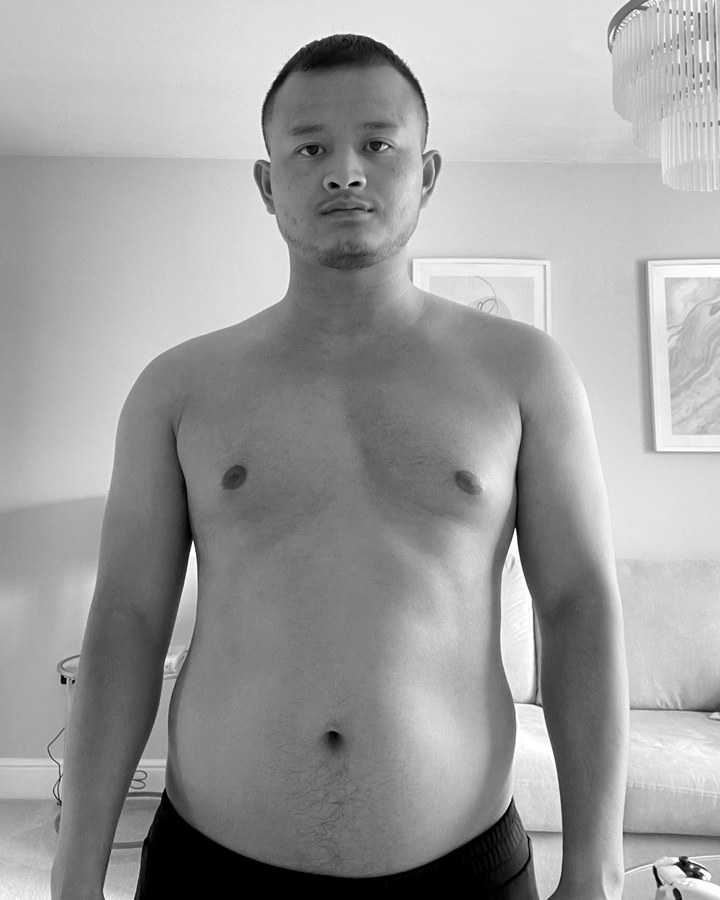
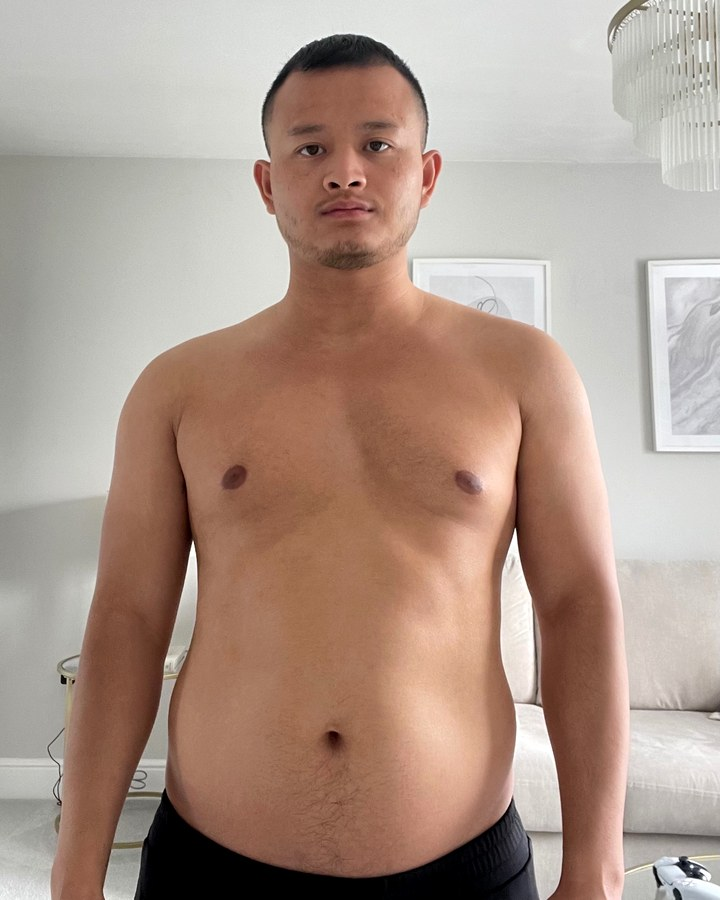
Cleaner hero (picture beside/above text, colour kept), colour before/after, shorter home, solid header
Claude-Session: https://claude.ai/code/session_01GB6whwA2aYPEgFXN47NhAr

diff --git a/src/components/home/Hero.tsx b/src/components/home/Hero.tsx
@@ -8,42 +8,42 @@ import { StartTraining } from "@/components/ui/StartTraining";
 import { HeroVideo } from "./HeroVideo";
 
 /**
- * Cinematic opening: the owner's film (content/media.ts) fills the first
- * screen, or, until it is supplied, the hero photograph does. A dark fade
- * keeps the cream text readable on any footage, and the text sits low so the
- * picture keeps the space above it. The video player is positioned over the
- * photograph so the layout is identical either way.
+ * Clean opening: one rounded picture (the owner's film from content/media.ts,
+ * or a still until it is supplied) and the words beside or beneath it, so
+ * nothing sits on top of the footage and its colours stay as filmed. On
+ * phones the picture comes first, then the headline and the button, all in
+ * the first screen. DOM order is text first so the heading leads for screen readers.
  */
 export function Hero() {
   const cta = getPrimaryCta();
   return (
-    <section aria-labelledby="hero-heading" className="relative isolate overflow-hidden text-paper">
-      <div className="relative h-[calc(100svh-4rem)] min-h-[32rem] max-h-[56rem] sm:h-[calc(100svh-5rem)]">
-        {heroVideo ? (
-          <HeroVideo sources={heroVideo.sources} poster={heroVideo.poster} className="absolute inset-0" />
-        ) : (
-          <PhotoFrame photo={images.hero} sizes="100vw" priority square className="absolute inset-0" />
-        )}
-        {/* The picture melts into the page: dark at the top (under the header) and at the foot (into the next section). */}
-        <div aria-hidden="true" className="pointer-events-none absolute inset-0 bg-linear-to-t from-ink via-ink/55 via-40% to-ink/30 sm:via-ink/40" />
-
-        <div className="container-page relative flex h-full flex-col justify-end pb-10 sm:pb-14 lg:pb-16">
-          <p className="eyebrow text-paper/80">
+    <section aria-labelledby="hero-heading" className="pt-4 pb-16 sm:pt-6 sm:pb-24 lg:pb-28">
+      <div className="container-page flex flex-col lg:grid lg:grid-cols-12 lg:items-center lg:gap-x-14">
+        <div className="order-2 mt-6 lg:order-1 lg:col-span-5 lg:mt-0">
+          <p className="eyebrow hidden text-muted-inverse sm:block">
             {site.name} {site.descriptor} · Cumbernauld, Glasgow
           </p>
-          <h1 id="hero-heading" className="mt-4 max-w-4xl font-display text-h1 text-balance">
+          <h1 id="hero-heading" className="font-display text-h1 text-balance sm:mt-5 lg:text-h2">
             Built through movement.
-            <span className="block text-paper/70">Defined by discipline.</span>
+            <span className="block text-muted-inverse">Defined by discipline.</span>
           </h1>
-          <p className="mt-5 max-w-lg text-lede text-paper/85">
+          <p className="mt-4 max-w-md text-lede text-muted-inverse sm:mt-6">
             Kettlebell classes, flexible memberships and personal coaching, built around good technique and a club that shows up.
           </p>
-          <div className="mt-8 flex flex-col gap-3 sm:flex-row sm:items-center">
-            <StartTraining href={cta.href} label={cta.label} external={cta.external} tone="dark" className="w-full sm:w-72" />
+          <div className="mt-6 flex flex-col gap-3 sm:mt-9 sm:flex-row sm:items-center">
+            <StartTraining href={cta.href} label={cta.label} external={cta.external} tone="dark" className="w-full sm:w-64" />
             <ButtonLink href="/memberships" tone="dark" variant="secondary" className="w-full sm:w-auto">
               View memberships
             </ButtonLink>
           </div>
+        </div>
+
+        <div className="relative order-1 h-[min(24rem,32svh)] min-h-[13rem] overflow-hidden rounded-3xl bg-ink-soft sm:h-[26rem] lg:order-2 lg:col-span-7 lg:h-[min(36rem,calc(100svh-9rem))]">
+          {heroVideo ? (
+            <HeroVideo sources={heroVideo.sources} poster={heroVideo.poster} className="absolute inset-0" />
+          ) : (
+            <PhotoFrame photo={images.hero} sizes="(min-width: 1024px) 58vw, 100vw" priority square className="absolute inset-0" />
+          )}
         </div>
       </div>
     </section>

diff --git a/src/components/home/FindYourTraining.tsx b/src/components/home/FindYourTraining.tsx
@@ -1,4 +1,3 @@
-import Link from "next/link";
 import { getService } from "@/content/services";
 import type { Service } from "@/content/types";
 import { publishable } from "@/lib/publish";
@@ -19,8 +18,7 @@ const options: Option[] = [
   {
     service: getService("group-classes"),
     kind: "In person · Group",
-    description:
-      "Kettlebell training built around strength, conditioning and movement quality, with exercises scaled to your ability. Pay as you go or join with a membership.",
+    description: "Kettlebell training for strength, conditioning and movement quality, scaled to your ability. Pay as you go or join with a membership.",
     cta: "Explore Classes",
   },
   {
@@ -37,42 +35,44 @@ const options: Option[] = [
   },
 ];
 
-/** The three services, as plain type on hairlines: no pictures, so the page stays quiet. */
+/** The three services as three numbered rows on hairlines: quiet, scannable, no pictures. */
 export function FindYourTraining() {
   return (
     <Section id="find-your-training" labelledBy="training-heading">
-      <SectionHeading id="training-heading" eyebrow="Ways to train" title="Find your training" intro="Choose the format that fits how you want to work." />
-      <ul className="mt-12 grid grid-cols-1 gap-12 lg:mt-16 xl:grid-cols-3 xl:gap-8">
+      <SectionHeading id="training-heading" eyebrow="Ways to train" title="Find your training" />
+      <ul className="mt-10 border-b border-line-inverse lg:mt-14">
         {options.map((o, i) => {
           const price = publishable(o.service.prices)[0];
           return (
-            <li key={o.service.id} data-reveal style={revealDelay(i)} className="flex flex-col rounded-3xl border border-line-inverse bg-paper/[0.03] p-7 sm:p-8">
-              <p className="eyebrow text-muted-inverse">
+            <li
+              key={o.service.id}
+              data-reveal
+              style={revealDelay(i)}
+              className="grid grid-cols-1 gap-x-8 gap-y-3 border-t border-line-inverse py-7 lg:grid-cols-12 lg:items-center lg:py-9"
+            >
+              <p className="eyebrow text-muted-inverse lg:col-span-3">
                 <span aria-hidden="true">{String(i + 1).padStart(2, "0")} · </span>
                 {o.kind}
               </p>
-              <h3 className="mt-3 font-display text-h2">{o.service.name}</h3>
-              <p className="mt-4 flex-1 text-muted-inverse">{o.description}</p>
-              {price ? (
-                <p className="mt-5 text-sm text-muted-inverse">
-                  {price.prefix ? `${price.prefix} ` : ""}
-                  <span className="text-lg font-medium text-paper tabular-nums">{formatGbp(price.amountGbp)}</span> {price.unit}
-                </p>
-              ) : null}
-              <ButtonLink href={o.service.href} tone="dark" variant="secondary" className="mt-6 w-full sm:w-auto sm:self-start">
-                {o.cta}
-              </ButtonLink>
+              <div className="lg:col-span-5">
+                <h3 className="font-display text-h3">{o.service.name}</h3>
+                <p className="mt-2 text-muted-inverse">{o.description}</p>
+              </div>
+              <div className="flex flex-wrap items-center justify-between gap-x-6 gap-y-1 lg:col-span-4 lg:justify-end">
+                {price ? (
+                  <p className="text-sm text-muted-inverse">
+                    {price.prefix ? `${price.prefix} ` : ""}
+                    <span className="text-lg font-medium text-paper tabular-nums">{formatGbp(price.amountGbp)}</span> {price.unit}
+                  </p>
+                ) : null}
+                <ButtonLink href={o.service.href} tone="dark" variant="text">
+                  {o.cta}
+                </ButtonLink>
+              </div>
             </li>
           );
         })}
       </ul>
-      <p className="mt-10 text-muted-inverse">
-        Training more than once a week?{" "}
-        <Link href="/memberships" className="font-semibold text-paper underline underline-offset-4 hover:no-underline">
-          Compare class memberships
-        </Link>
-        .
-      </p>
     </Section>
   );
 }

diff --git a/src/components/memberships/MembershipSummary.tsx b/src/components/memberships/MembershipSummary.tsx
@@ -1,0 +1,81 @@
+import Link from "next/link";
+import { membershipPlans, BILLING_WEEKS } from "@/content/memberships";
+import { getService } from "@/content/services";
+import { formatPenceShort, planFigures } from "@/lib/membership";
+import { ButtonLink } from "@/components/ui/ButtonLink";
+import { Section, SectionHeading } from "@/components/ui/Section";
+import { cn } from "@/lib/cn";
+
+const payg = getService("group-classes").prices[0];
+
+/**
+ * The homepage view of memberships: one quiet row per plan with the saving
+ * at a glance, and one button to the full cards. The sign-up buttons live on
+ * /memberships, so the home page stays short.
+ */
+export function MembershipSummary() {
+  return (
+    <Section tone="raised" id="memberships" labelledBy="memberships-summary-heading">
+      <div className="grid grid-cols-1 gap-10 lg:grid-cols-12 lg:gap-16">
+        <div className="lg:col-span-4">
+          <SectionHeading
+            id="memberships-summary-heading"
+            eyebrow="Kettlebell memberships"
+            title="Train more, pay less per class"
+            intro={`Pay as you go is £${payg.amountGbp} a class. Every membership brings each class down.`}
+          />
+          <ButtonLink href="/memberships" tone="dark" variant="action" className="mt-8 w-full sm:w-72">
+            Compare memberships
+          </ButtonLink>
+        </div>
+        <div className="lg:col-span-8">
+          <ul aria-labelledby="memberships-summary-heading" className="border-b border-line-inverse">
+            {membershipPlans.map((plan) => {
+              const f = planFigures(plan, payg.amountGbp);
+              return (
+                <li
+                  key={plan.id}
+                  className={cn(
+                    "grid grid-cols-[1fr_auto] items-baseline gap-x-6 gap-y-1 border-t border-line-inverse py-5 sm:grid-cols-[1.2fr_1fr_1fr_auto]",
+                    plan.highlight && "bg-paper/[0.05] px-4 sm:-mx-4 sm:px-4",
+                  )}
+                >
+                  <h3 className="font-display text-h3">
+                    {plan.name}
+                    {plan.highlight ? <span className="eyebrow block whitespace-nowrap text-[0.625rem] text-muted-inverse sm:ml-3 sm:inline sm:align-middle">{plan.highlight}</span> : null}
+                  </h3>
+                  <p className="text-right sm:order-4 sm:text-left">
+                    <span className="text-xl font-medium tabular-nums">£{plan.priceGbp}</span>
+                    <span className="text-sm text-muted-inverse"> / {BILLING_WEEKS} weeks</span>
+                  </p>
+                  <p className="text-sm text-muted-inverse sm:order-2">
+                    {plan.credits} credits · {formatPenceShort(f.perClassPence)} per class
+                  </p>
+                  <p className="text-right text-sm sm:order-3 sm:text-left">
+                    <span className="sr-only">You save </span>
+                    <span className="font-medium">Save {formatPenceShort(f.savingPence)}</span>
+                    <span className="text-muted-inverse"> vs {formatPenceShort(f.payAsYouGoPence)}</span>
+                  </p>
+                </li>
+              );
+            })}
+            <li className="grid grid-cols-[1fr_auto] items-baseline gap-x-6 border-t border-line-inverse py-5">
+              <h3 className="font-display text-h3">Pay as you go</h3>
+              <p className="text-right">
+                <span className="text-xl font-medium tabular-nums">£{payg.amountGbp}</span>
+                <span className="text-sm text-muted-inverse"> per class</span>
+              </p>
+            </li>
+          </ul>
+          <p className="mt-6 text-sm text-muted-inverse">
+            Savings assume every credit is used in the four-week period.{" "}
+            <Link href="/memberships#cancellation" className="font-semibold text-paper underline underline-offset-4 hover:no-underline">
+              Cancellation policy
+            </Link>
+            .
+          </p>
+        </div>
+      </div>
+    </Section>
+  );
+}

diff --git a/src/components/home/Statement.tsx b/src/components/home/Statement.tsx
@@ -1,30 +1,19 @@
-import { pillars } from "@/content/about";
+import { site } from "@/content/site";
 import { Section } from "@/components/ui/Section";
-import { revealDelay } from "@/lib/reveal";
 
-/** What the club is, in one paragraph and three words. Type only: no imagery. */
+/** What the club is: one heading, one paragraph, three words. Type only. */
 export function Statement() {
   return (
-    <Section id="the-club" labelledBy="club-heading">
-      <div className="grid grid-cols-1 gap-12 lg:grid-cols-12 lg:gap-16">
-        <div data-reveal className="lg:col-span-6">
-          <p className="eyebrow mb-4 text-muted-inverse">The club</p>
-          <h2 id="club-heading" className="font-display text-h2 text-balance">
-            Strength is built through consistency.
-          </h2>
-          <p className="mt-6 max-w-xl text-lede text-muted-inverse">
-            RAENG is a kettlebell club in Cumbernauld, Glasgow. We train with purpose, learn good technique and build strength
-            together, class after class.
-          </p>
-        </div>
-        <ul className="grid grid-cols-1 gap-8 sm:grid-cols-3 lg:col-span-6 lg:gap-6">
-          {pillars.map((p, i) => (
-            <li key={p.title} data-reveal style={revealDelay(i)} className="border-t border-line-inverse pt-5">
-              <h3 className="font-display text-h3">{p.title}</h3>
-              <p className="mt-3 text-sm text-muted-inverse">{p.body}</p>
-            </li>
-          ))}
-        </ul>
+    <Section id="the-club" labelledBy="club-heading" spacing="compact">
+      <div data-reveal className="max-w-3xl">
+        <p className="eyebrow mb-5 text-muted-inverse">{site.themes.join(" · ")}</p>
+        <h2 id="club-heading" className="font-display text-h2 text-balance">
+          Strength is built through consistency.
+        </h2>
+        <p className="mt-6 max-w-xl text-lede text-muted-inverse">
+          RAENG is a kettlebell club in Cumbernauld, Glasgow. We train with purpose, learn good technique and build strength
+          together, class after class.
+        </p>
       </div>
     </Section>
   );

diff --git a/src/app/page.tsx b/src/app/page.tsx
@@ -7,7 +7,7 @@ import { FindYourTraining } from "@/components/home/FindYourTraining";
 import { Hero } from "@/components/home/Hero";
 import { Statement } from "@/components/home/Statement";
 import { CtaBand } from "@/components/sections/CtaBand";
-import { MembershipSection } from "@/components/memberships/MembershipSection";
+import { MembershipSummary } from "@/components/memberships/MembershipSummary";
 
 export const metadata: Metadata = pageMetadata({ description: site.description, path: "/" });
 
@@ -18,7 +18,7 @@ export default function HomePage() {
       <Statement />
       <CoachStory />
       <FindYourTraining />
-      <MembershipSection />
+      <MembershipSummary />
       <CtaBand />
     </NightPage>
   );

diff --git a/src/app/layout.tsx b/src/app/layout.tsx
@@ -37,7 +37,7 @@ export const viewport: Viewport = {
 
 export default function RootLayout({ children }: LayoutProps<"/">) {
   return (
-    <html lang="en-GB" className={`${archivo.variable} antialiased`}>
+    <html lang="en-GB" className={`${archivo.variable} antialiased`} suppressHydrationWarning>
       <head>
         {/* Scroll reveal: switched on before first paint; see lib/reveal.ts. */}
         <script dangerouslySetInnerHTML={{ __html: REVEAL_SCRIPT }} />

diff --git a/src/components/layout/SiteHeader.tsx b/src/components/layout/SiteHeader.tsx
@@ -7,7 +7,7 @@ export function SiteHeader() {
   const cta = getPrimaryCta();
 
   return (
-    <header className="sticky top-0 z-40 bg-ink/80 text-paper backdrop-blur-md">
+    <header className="sticky top-0 z-40 border-b border-line-inverse/60 bg-ink text-paper">
       <div className="container-page relative flex h-16 items-center justify-between gap-8 sm:h-20">
         <Logo tone="dark" priority />
         <div className="flex items-center gap-5 xl:gap-6">

diff --git a/scripts/supplied_photos.py b/scripts/supplied_photos.py
@@ -1,14 +1,13 @@
 """Cut the photos of Alex supplied by the project owner (2026-10-17).
 
 Sources live in assets/journey/. Each is cropped to 4:5, resized to 720x900
-and given the hero video's black-and-white grade. The before/after pair use
+and given a light contrast lift. They stay in colour (2026-10-21: the new brand has no black-and-white look). The before/after pair use
 the same framing (head to waistband).
 
 Usage (needs Pillow):
     python3 scripts/supplied_photos.py
-Outputs: public/journey/before.jpg, public/journey/after.jpg,
-         public/images/alex/about.jpg
-"""
+Outputs: public/journey/before.jpg, public/journey/after.jpg
+         """
 
 from pathlib import Path
 
@@ -21,7 +20,6 @@ SRC_DIR = ROOT / "assets/journey"
 SHOTS = {
     "before": ("public/journey/before.jpg", (0, 0, 1525)),  # 1525x1920 phone photo at home
     "after": ("public/journey/after.jpg", (0, 20, 654)),  # 654x960 gym photo
-    "about": ("public/images/alex/about.jpg", (0, 20, 900)),  # 1206x1357, head to knees among the kettlebells
 }
 
 
@@ -30,8 +28,8 @@ def main():
         image = ImageOps.exif_transpose(Image.open(SRC_DIR / f"{name}-source.jpg"))
         h = round(w * 5 / 4)
         crop = image.crop((x, y, x + w, y + h)).resize((720, 900), Image.LANCZOS)
-        # Same black-and-white grade as the hero video: slight contrast lift around mid-grey.
-        graded = ImageOps.grayscale(crop).point(lambda v: max(0, min(255, round((v - 128) * 1.08 + 128))))
+        # Slight contrast lift around mid-grey, colour kept.
+        graded = crop.convert("RGB").point(lambda v: max(0, min(255, round((v - 128) * 1.06 + 128))))
         out = ROOT / dest
         out.parent.mkdir(parents=True, exist_ok=True)
         graded.save(out, quality=88, optimize=True, progressive=True)

diff --git a/DESIGN.md b/DESIGN.md
@@ -11,6 +11,8 @@ Reference: two "dark minimalism" interiors; palette black #000000, warm cream #F
 - **The one cream moment:** the highlighted membership card (Dedicated, "Best value") is cream with black text; its button is black.
 - **Light theme kept for tools:** `/book*`, `/online-coaching/enquire` and the coach area stay on cream with white fields (forms need them); the header and footer are black throughout. Those pages set their own `bg-paper`; only the public marketing, contact, privacy and 404 pages use `NightPage`.
 - `Section`, `SectionHeading`, `PriceList`, `Timetable`, `Steps`, `InstagramAlternative`, `Faq`, `Location`, `CtaBand`, `PageHeader` are dark-only (no `tone` prop except `Section` plain/raised).
+- **Hero (checked against the owner's request, 2026-10-21):** one rounded picture (the owner's film, or a still until it is supplied) with the words beside it on desktop and beneath it on phones, so no text sits on the footage and its colours stay as filmed (no black-and-white). Phones: picture, headline, "Book now" all in the first screen. The header is solid black with a hairline.
+- **Home is deliberately short:** hero, one statement, the coach and before-and-after (in colour), three numbered rows for the services, a compact memberships table with the savings, closing call to action. Full membership cards (and their buttons) live on `/memberships`. Three images in `main`, enforced by e2e.
 
 ## Kettlebell Club redesign (2026-10-21, later) — supersedes the dark-first notes below
 
